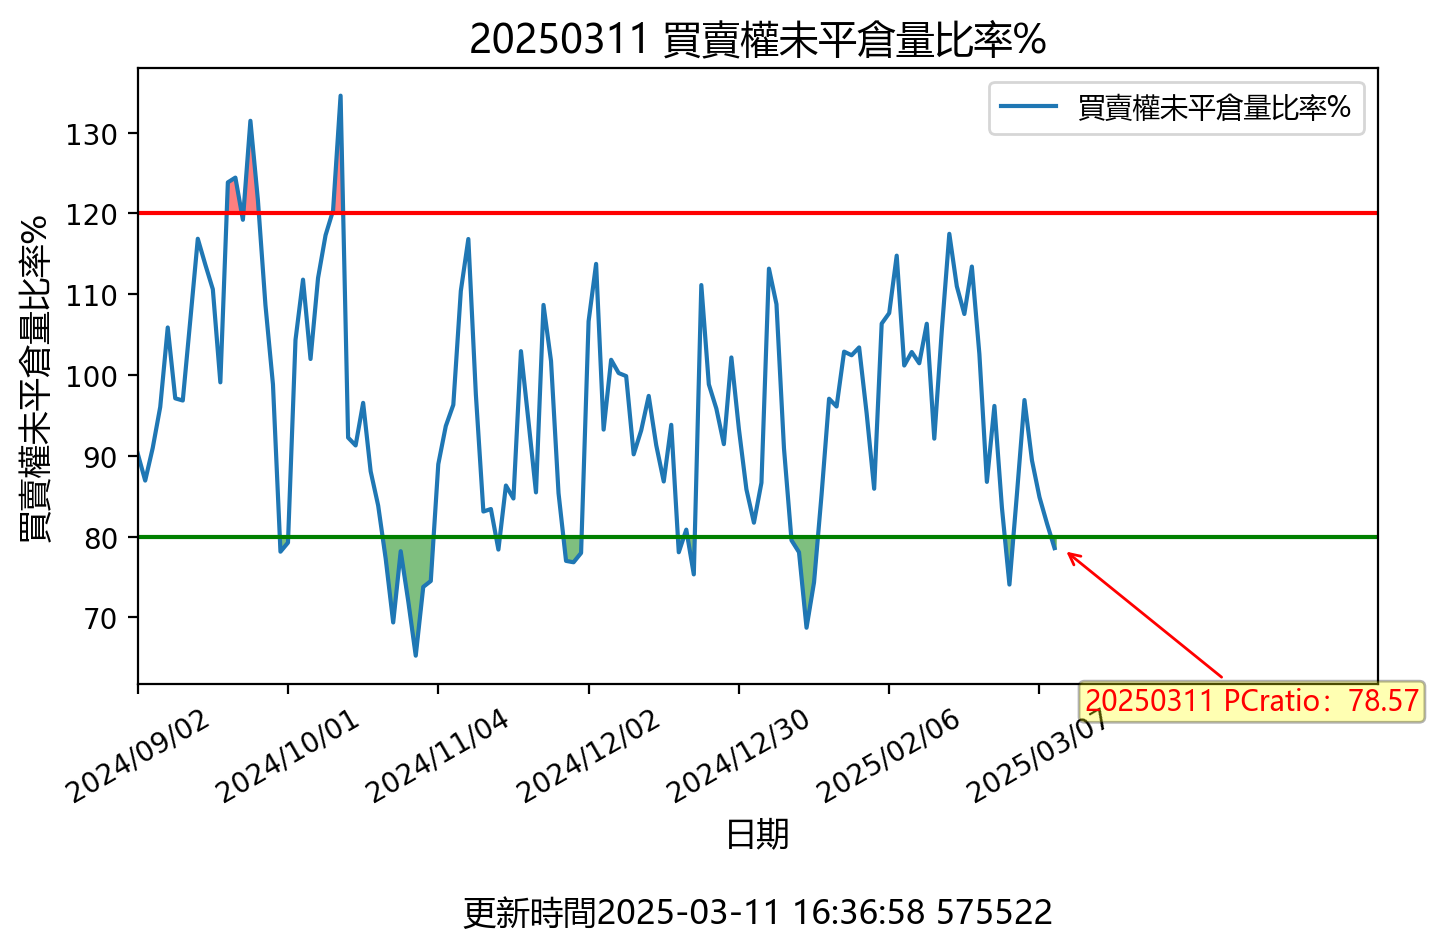
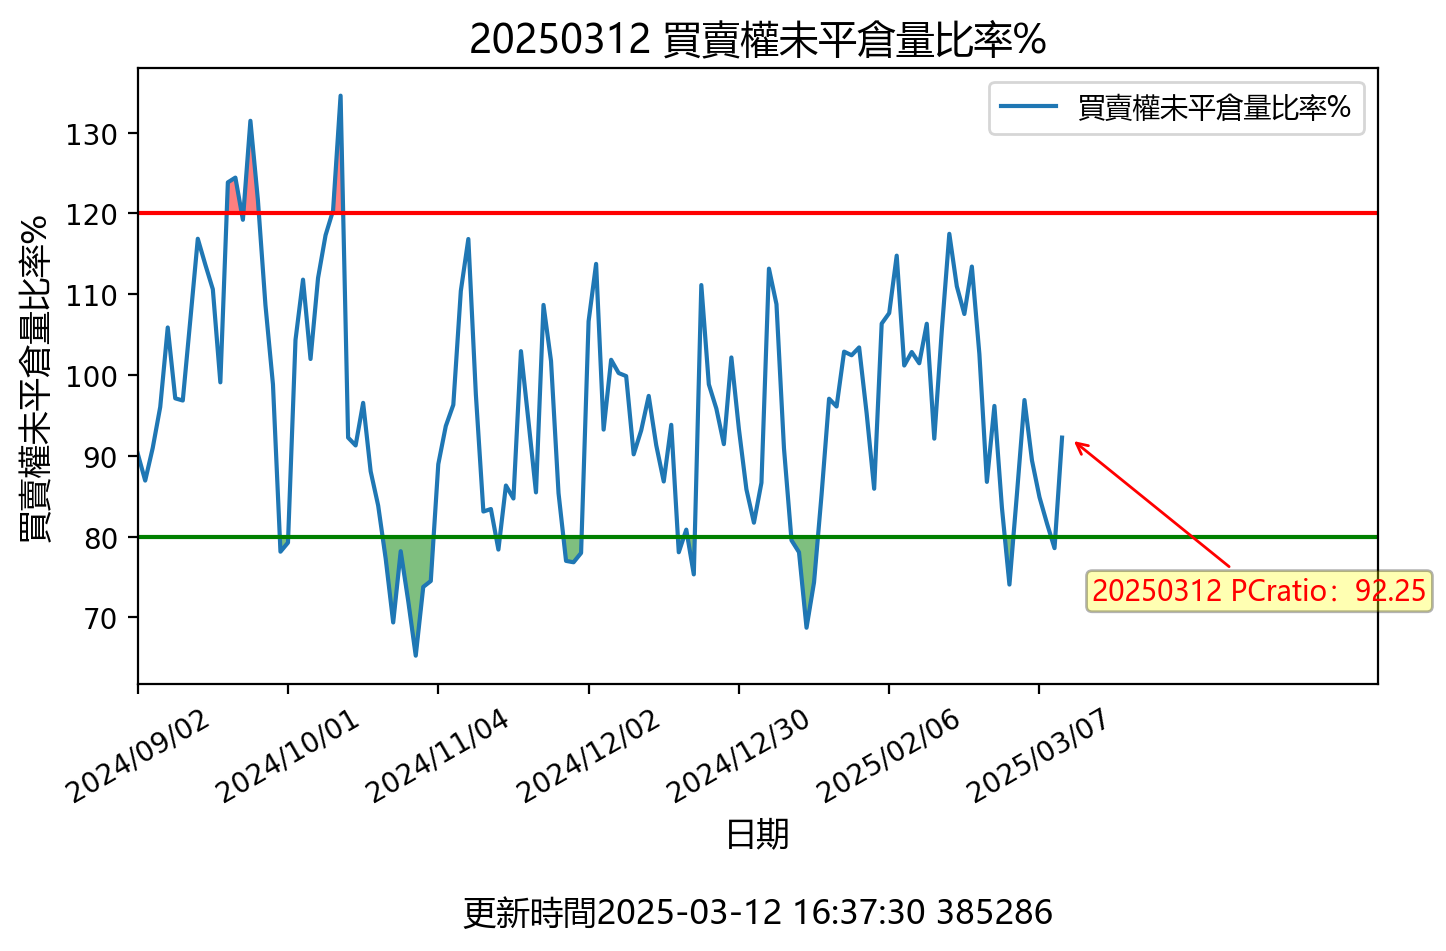
更新時間: Wed Mar 12 16:37:48 CST 2025

diff --git a/README.md b/README.md
@@ -1,12 +1,12 @@
-## 20250311 台指期「預估換倉成本」
+## 20250312 台指期「預估換倉成本」
 ![](images/txfcost.png)
 
-## 20250311 台指期「散戶小台多空比」
+## 20250312 台指期「散戶小台多空比」
 ![](images/bbiri.png)
 
-## 20250311 台指選擇權「Put/Call Ratios」
+## 20250312 台指選擇權「Put/Call Ratios」
 ![](images/pcratio.png)
 
-## 20250311 台指期「大額交易人」
+## 20250312 台指期「大額交易人」
 ![](images/blocktrade.png)
 
